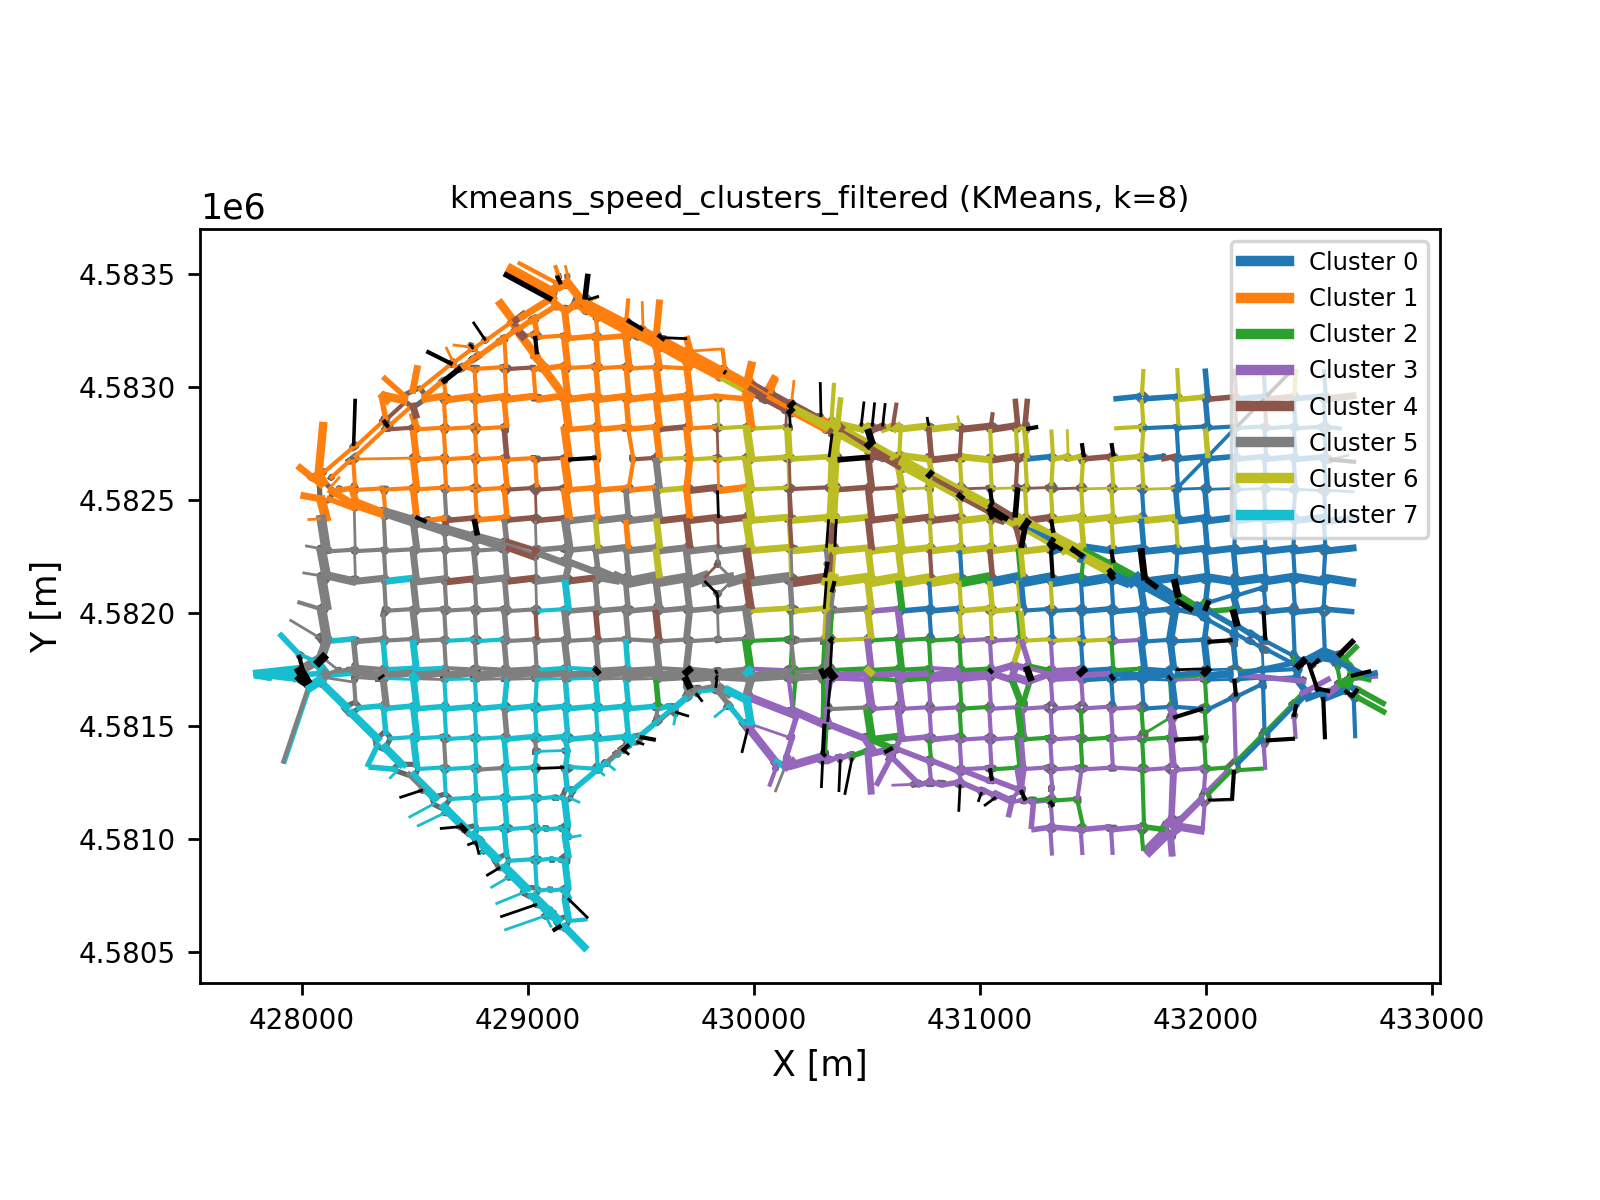
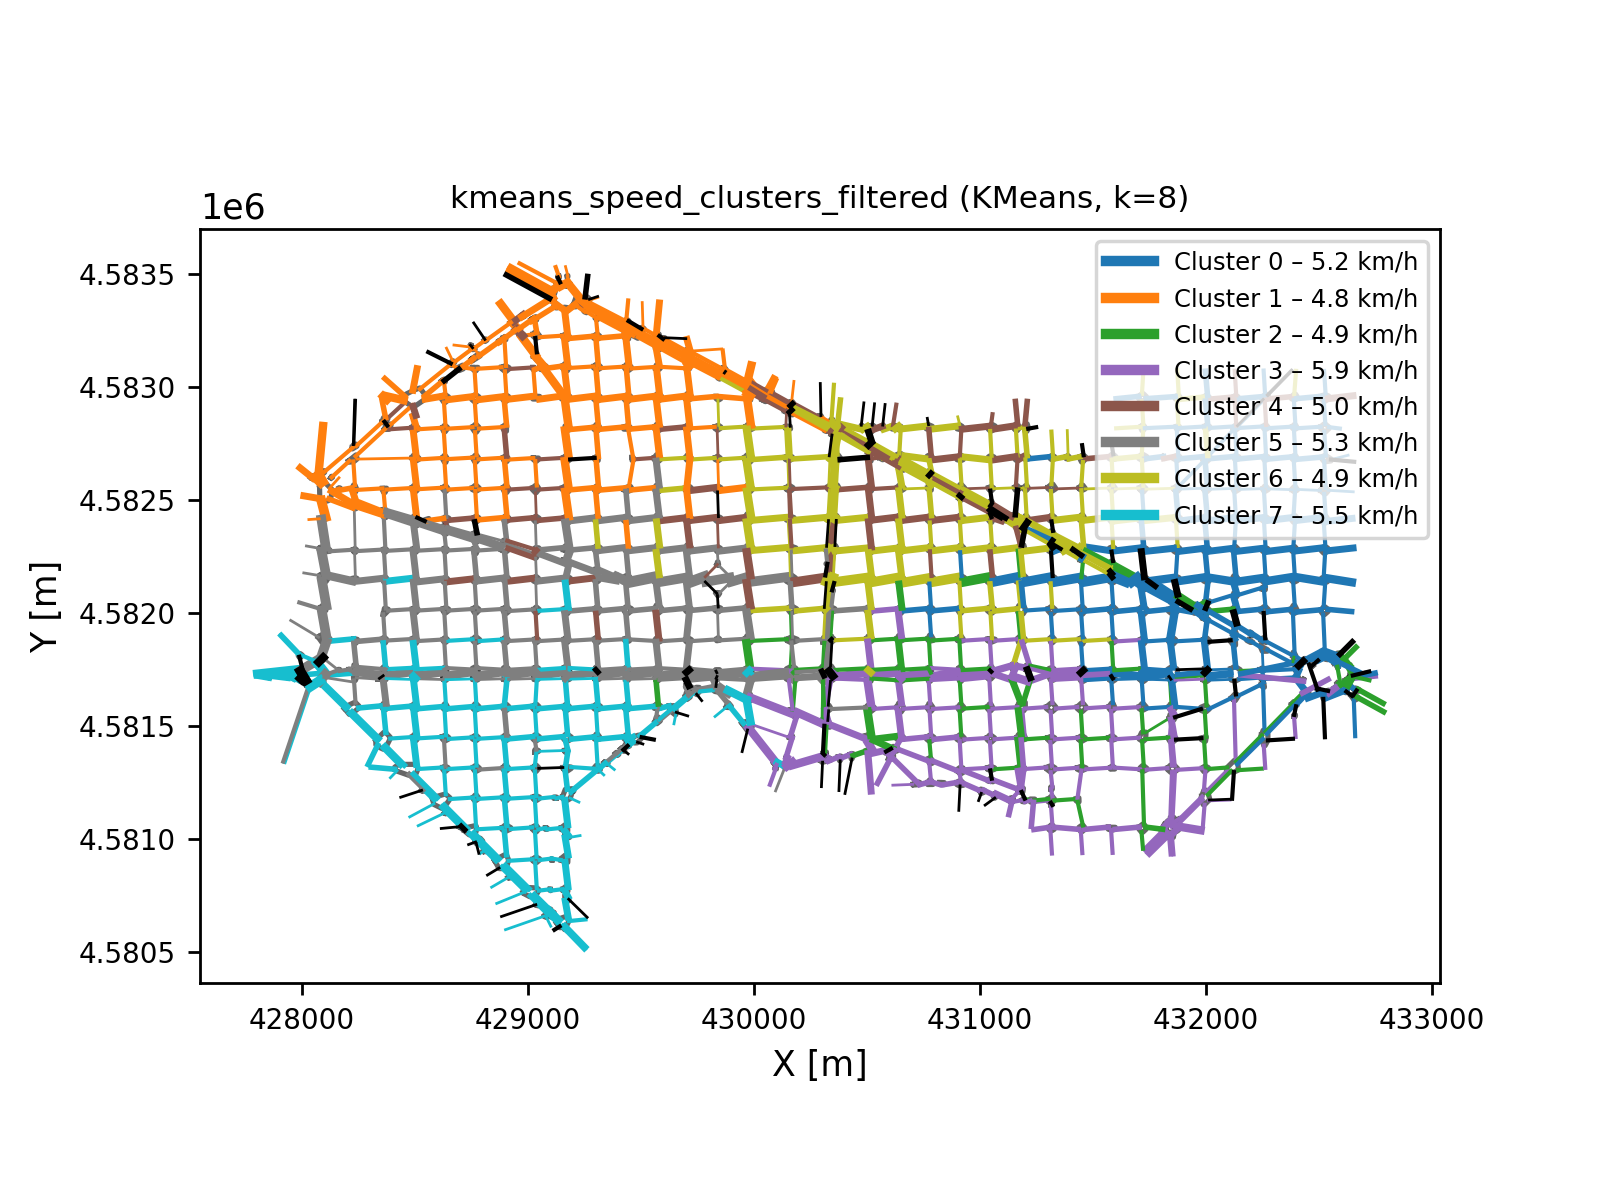
Avg speed in legend and grid

Changed region(s): [[0.6875, 0.185, 0.9062, 0.4625]]

diff --git a/main.py b/main.py
@@ -493,7 +493,7 @@ def kmeans_clustering(n_clusters, name, feature_type, random_state=42, threshold
     if filter:
         if threshold.size > 0:
             mask = np.ones(plot_links.shape[0], dtype=bool)
-            mask[th] = False 
+            mask[threshold] = False 
             plot_links = plot_links.loc[mask] 
     ##############
     
@@ -559,10 +559,32 @@ def kmeans_clustering(n_clusters, name, feature_type, random_state=42, threshold
     polyg(ax, color="black", alpha=0.6, zorder=-1)
 
     # ── Legend ─────────────────────────────────────────────────────────────────
-    handles = [
-        plt.Line2D([0], [0], color=cluster_colors[k], lw=3, label=f"Cluster {k}")
-        for k in range(n_clusters)
-    ]
+    handles = []
+    vdist = DL._vdist_3min.astype(float)
+    vtime = DL._vtime_3min.astype(float)
+    speed = np.divide(
+            vdist,
+            vtime,
+            out=np.full(vdist.shape, np.nan, dtype=float),
+            where=vtime != 0,
+        )
+    speed = mean_over_sessions(np.nan_to_num(speed, nan=0.0))
+    print(speed.shape)
+    speed = np.mean(speed, axis = 0)
+    print(speed.shape)
+    
+    for k in range(n_clusters):
+        cluster_idx = np.where(labels == k)[0]          # indices des liens du cluster k
+        mean_speed_real = speed[cluster_idx].mean()
+        handles.append(
+            plt.Line2D(
+                [0], [0], 
+                color=cluster_colors[k], 
+                lw=3, 
+                label=f"Cluster {k} – {mean_speed_real:.1f} km/h"
+            )
+        )
+
     ax.legend(handles=handles, fontsize=7, loc="upper right")
 
     # ── Save ───────────────────────────────────────────────────────────────────
@@ -715,7 +737,7 @@ def build_cluster_features(feature_type, threshold=np.array([]), filter=False):
         if filter:
             if threshold.size > 0:
                 mask = np.ones(speed_profile.shape[1], dtype=bool)
-                mask[th] = False 
+                mask[threshold] = False 
                 speed_profile = speed_profile[:, mask]
         ##############
         
@@ -1177,6 +1199,109 @@ def percolation_analysis(session=0, timestep=None, n_q=100):
     return qc, bottlenecks
 
 
+
+
+def grid_clust(xdiv = 4, ydiv = 4, percentile = 65):
+    """
+    Clusters the links based on a rectangular grid
+    
+    xdiv : int
+    """
+    links_local = links.copy()
+    tol = 100
+    x_min = np.min(links_local["from_x"]) - tol
+    x_max = np.max(links_local["to_x"]) + tol
+    y_min = np.min(links_local["from_y"]) - tol
+    y_max = np.max(links_local["to_y"]) + tol
+ 
+    w = (x_max - x_min)/xdiv
+    h = (y_max - y_min)/ydiv
+    xs = np.arange(x_min, x_max, w)
+    ys = np.arange(y_min, y_max, h)
+    
+    folder = f"figure/clustering/grid_clusters"
+    os.makedirs(folder, exist_ok=True)
+    
+    fig, ax = plt.subplots(dpi = 250)
+    
+    ### Assigning the grid cell in which link is (clustering)
+    links_local["cell_x"] = ((links_local["c_x"] - x_min)//w).astype(int)
+    links_local["cell_y"] = ((links_local["c_y"] - y_min)//h).astype(int)
+    
+    ### Manually assigning a color for each grid cell 
+
+    vdist = DL._vdist_3min.astype(float)
+    vtime = DL._vtime_3min.astype(float)
+
+    speed = np.divide(
+        vdist,
+        vtime,
+        out=np.full(vdist.shape, np.nan),  # fallback
+        where=(vtime != 0) & (~np.isnan(vtime))
+    )
+    
+    speed = mean_over_sessions(np.nan_to_num(speed, nan=0.0))
+    print(speed.shape)
+    
+    average_speed_per_link = np.nanmean(speed, axis=0)  #  Average speed over 2 hours
+    links_local["speed_mean"] = average_speed_per_link
+    
+    cell_speed = (
+        links_local
+        .groupby(["cell_x", "cell_y"])["speed_mean"]
+        .mean()
+        .reset_index(name="cell_avg_speed")
+    )
+    
+    links_local = links_local.merge(
+        cell_speed,
+        on=["cell_x", "cell_y"],
+        how="left"
+    )
+
+    perc = np.percentile(average_speed_per_link, percentile, axis=0) # NN-th percentile 
+    print(perc)
+    
+    links_local["color"] = np.where(
+        links_local["cell_avg_speed"] >= perc,
+        "green",
+        "red"
+    )
+    ### Plotting the links
+    for _, row in links_local.iterrows():
+
+        ax.plot(
+            [row["from_x"], row["to_x"]],
+            [row["from_y"], row["to_y"]],
+            color= row["color"]
+        )
+
+    ### Plotting the grid cells
+    for x in xs:
+        for y in ys:
+            rect = patches.Rectangle(
+                (x, y),
+                w,
+                h,
+                edgecolor="black",
+                facecolor="none",
+                linewidth=0.5
+            )
+            ax.add_patch(rect)
+            
+    ### Plotting the intersections
+    polyg(ax, color="black", zorder=-2)
+    
+    ax.set_title(f"{percentile}th percentile : Speed = {perc}")
+    ax.set_xlim(x_min, x_max)
+    ax.set_ylim(y_min, y_max)
+    ax.set_aspect("equal")
+    fig.savefig(f"{folder}/grid{percentile}.png")
+    plt.close()
+
+
+
+
 #graph()
 param = [
     DL._vdist_3min, 
@@ -1195,14 +1320,16 @@ param_name = [
 
 n_clus = 8
 seeds = np.linspace(0, 9, 10)
-
+# grid_clust(20, 16, 85)
+# grid_clust(20, 16, 65)
+# grid_clust(20, 16, 45)
 
 ### Spatial KMeans (multiple seeds)
 # kmeans_clust(n_clus, seeds, "kmeans")
 
 ### Threshold
-# th = thresholds(max_speed=2, max_length=np.inf)
-# print(th)
+th = thresholds(max_speed=2, max_length=np.inf)
+print(th)
 
 # ### Ward (agglomerative) – feature-driven, connectivity-constrained
 # # clustering(n_clus, "geometric_clusters", "geometric")
@@ -1211,8 +1338,8 @@ seeds = np.linspace(0, 9, 10)
 # # clustering(n_clus, "speed_clusters", "speed", threshold=th)
 
 # ## KMeans with velocity/traffic features  ← NEW
-# kmeans_clustering(n_clus, "kmeans_speed_clusters",    "speed", threshold=th)
-# kmeans_clustering(n_clus, "kmeans_speed_clusters",    "speed", threshold=th, filter=True)
+kmeans_clustering(n_clus, "kmeans_speed_clusters",    "speed", threshold=th)
+kmeans_clustering(n_clus, "kmeans_speed_clusters",    "speed", threshold=th, filter=True)
 # # kmeans_clustering(n_clus, "kmeans_distance_clusters", "distance")
 # # kmeans_clustering(n_clus, "kmeans_time_clusters",     "time")
 
@@ -1221,5 +1348,5 @@ seeds = np.linspace(0, 9, 10)
 # simplified_map(distance_threshold=45.0, grad=False, color="navy")
 
 ### Percolation analysis
-percolation_analysis()
+#percolation_analysis()
 
